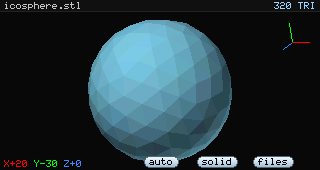
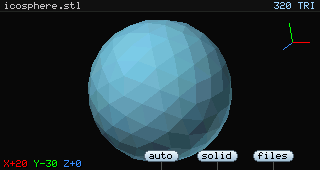
Lift the bottom buttons and add key guide lines
Move the buttons 6px up and drop a 1px guide from each one to the bottom
edge, pointing at the physical 6 / 7 / 8 keys below the display. The toast
moves up to clear them, and the buttons plus guides hide while the help
overlay is open so they do not collide with the panel.

Changed region(s): [[0.7812, 0.8824, 0.9375, 1.0], [0.5938, 0.8824, 0.75, 1.0], [0.4375, 0.8824, 0.5625, 1.0]]

diff --git a/src/ui.cpp b/src/ui.cpp
@@ -262,30 +262,40 @@ void drawUi(Canvas& canvas, const UiState& state) {
               0x3C7F);
 
     const int pill_h = 12;
-    const int pill_y = hint_y - 2;
+    const int pill_y = hint_y - 8;
 
-    // Auto-rotate toggle aligned with the "6" key (x=161).
-    std::string auto_label = "auto";
-    if (state.auto_mode == AutoRotateMode::X) {
-        auto_label = "auto x";
-    } else if (state.auto_mode == AutoRotateMode::Y) {
-        auto_label = "auto y";
-    } else if (state.auto_mode == AutoRotateMode::Z) {
-        auto_label = "auto z";
+    // The buttons and their key guides would collide with the help panel.
+    if (!state.help) {
+        // Auto-rotate toggle aligned with the "6" key (x=161).
+        std::string auto_label = "auto";
+        if (state.auto_mode == AutoRotateMode::X) {
+            auto_label = "auto x";
+        } else if (state.auto_mode == AutoRotateMode::Y) {
+            auto_label = "auto y";
+        } else if (state.auto_mode == AutoRotateMode::Z) {
+            auto_label = "auto z";
+        }
+        drawLabelPill(canvas, 161, pill_y, pill_h, auto_label,
+                      state.auto_mode == AutoRotateMode::Off
+                          ? Theme::kPillBackground
+                          : Theme::kPillActive);
+
+        // Render style button aligned with the "7" key (x=217).
+        const std::string style_label = styleName(state.style);
+        drawLabelPill(canvas, 217, pill_y, pill_h, style_label,
+                      Theme::kPillBackground);
+
+        // Files button aligned with the "8" key (x=273).
+        drawLabelPill(canvas, 273, pill_y, pill_h, "files",
+                      Theme::kPillBackground);
+
+        // 1px guides pointing down at the physical 6 / 7 / 8 keys.
+        constexpr int kKeyGuides[] = {161, 217, 273};
+        const int guide_top = pill_y + pill_h;
+        for (int x : kKeyGuides) {
+            canvas.fillRect(x, guide_top, 1, h - guide_top, 0x52AA);
+        }
     }
-    drawLabelPill(canvas, 161, pill_y, pill_h, auto_label,
-                  state.auto_mode == AutoRotateMode::Off
-                      ? Theme::kPillBackground
-                      : Theme::kPillActive);
-
-    // Render style button aligned with the "7" key (x=217).
-    const std::string style_label = styleName(state.style);
-    drawLabelPill(canvas, 217, pill_y, pill_h, style_label,
-                  Theme::kPillBackground);
-
-    // Files button aligned with the "8" key (x=273).
-    drawLabelPill(canvas, 273, pill_y, pill_h, "files",
-                  Theme::kPillBackground);
 
     // Transient toast (screenshot saved, etc.), styled like the other popups.
     if (!state.toast.empty()) {
@@ -294,7 +304,7 @@ void drawUi(Canvas& canvas, const UiState& state) {
         const int panel_h = 18;
         const int radius = 5;
         const int px = (w - panel_w) / 2;
-        const int py = hint_y - panel_h - 6;
+        const int py = pill_y - panel_h - 6;
 
         drawSoftShadow(canvas, px, py, panel_w, panel_h, radius);
         fillRoundRect(canvas, px, py, panel_w, panel_h, radius,

diff --git a/docs/DESIGN.md b/docs/DESIGN.md
@@ -183,7 +183,9 @@ buttons float directly over the render. The axis text gets a one-pixel dark drop
 contrast. A tap on `6` cycles the auto modes on key release; holding it for
 0.6 s stops auto-rotate while the key is still down. The buttons are fully
 rounded pills with a dark rim, a vertical face gradient, a bright top edge
-and a soft drop shadow. The auto-rotate toggle sits at x=161 (`auto`, `auto x`,
+and a soft drop shadow. Each drops a 1px guide line to the bottom edge,
+pointing at the physical 6 / 7 / 8 key below the display; the buttons and
+guides are hidden while the help overlay is open. The auto-rotate toggle sits at x=161 (`auto`, `auto x`,
 `auto y`, `auto z`; mint green when running) under the `6` key, a render-style
 button at x=217 (`solid`, `edges`, `matcap` or `wire`) under the `7` key, and a
 `files` button at x=273 under the `8` key. `8` opens the file browser. The 3D
